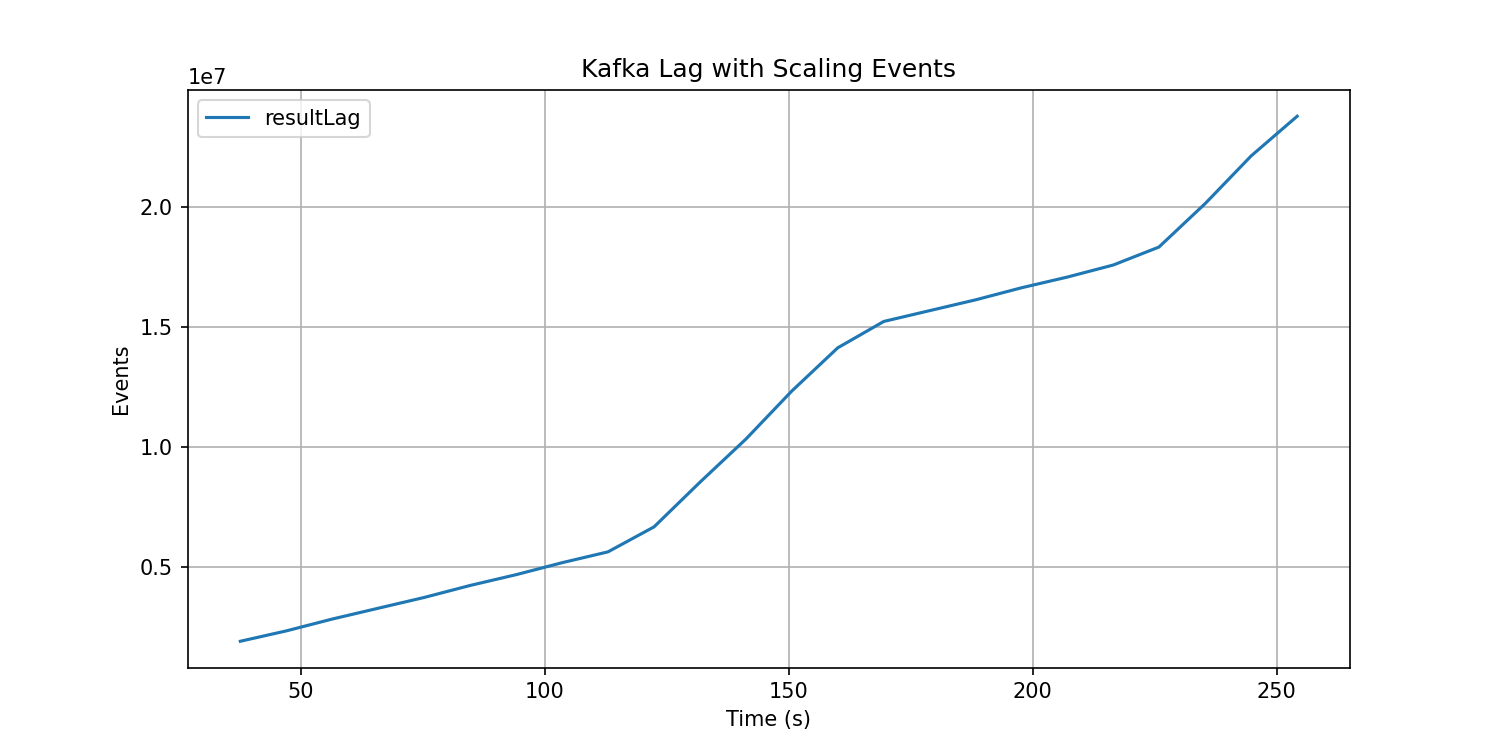
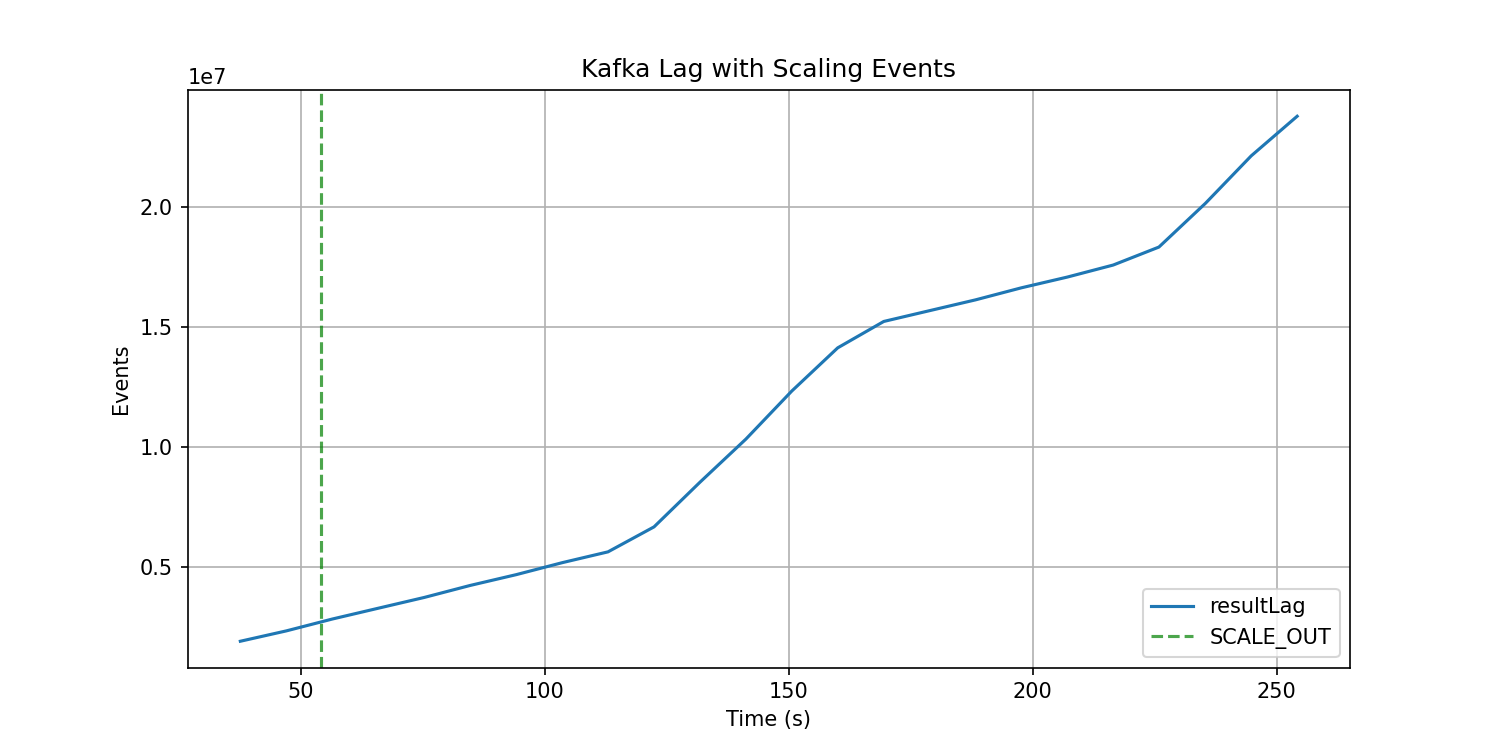
Fix plot_metrics.py: scaling events marker was filtered out by wrong t0
plot_scaling_events received the warmed df (rel_s >= 30s), so
df["timestamp"].min() pointed to the warmed start (~t=30s), not the
true run start. Scaling events that fired between t=30s and t=60s got
a rel_s of 0-30s and were then dropped by the >= WARMUP_MS/1000 filter.

Fix: recover true t0 as df["timestamp"].min() - timedelta(df["rel_s"].min())
before computing dec["rel_s"], and remove the now-unnecessary filter.

Regenerated scaling_events.png for autoscale8 run: SCALE_OUT marker
now visible at t≈54s.

Changed region(s): [[0.7667, 0.7667, 0.8893, 0.8893], [0.1227, 0.1227, 0.2453, 0.184]]

diff --git a/scripts/cloudlab/plot_metrics.py b/scripts/cloudlab/plot_metrics.py
@@ -233,9 +233,11 @@ def plot_scaling_events(df: pd.DataFrame, work_dir: str):
     dec = pd.read_csv(decisions, header=None)
     dec.columns = ["timestamp", "action", "avgCpu", "avgInput", "avgProcess", "queue", "queue2", "ratio", "numExecutors"]
     dec["timestamp"] = pd.to_datetime(dec["timestamp"], unit="ms")
-    t0 = df["timestamp"].min()
-    dec["rel_s"] = (dec["timestamp"] - t0).dt.total_seconds()
-    dec = dec[dec["rel_s"] >= WARMUP_MS / 1000]
+    # df is the warmed subset: its rel_s values are correct (relative to true run start)
+    # but df["timestamp"].min() is ~30s into the run, not the true t0.
+    # Recover true t0 so scaling events that fired early are not filtered out.
+    true_t0 = df["timestamp"].min() - pd.Timedelta(seconds=float(df["rel_s"].min()))
+    dec["rel_s"] = (dec["timestamp"] - true_t0).dt.total_seconds()
 
     plt.figure(figsize=(10, 5))
     # Plot source rate
